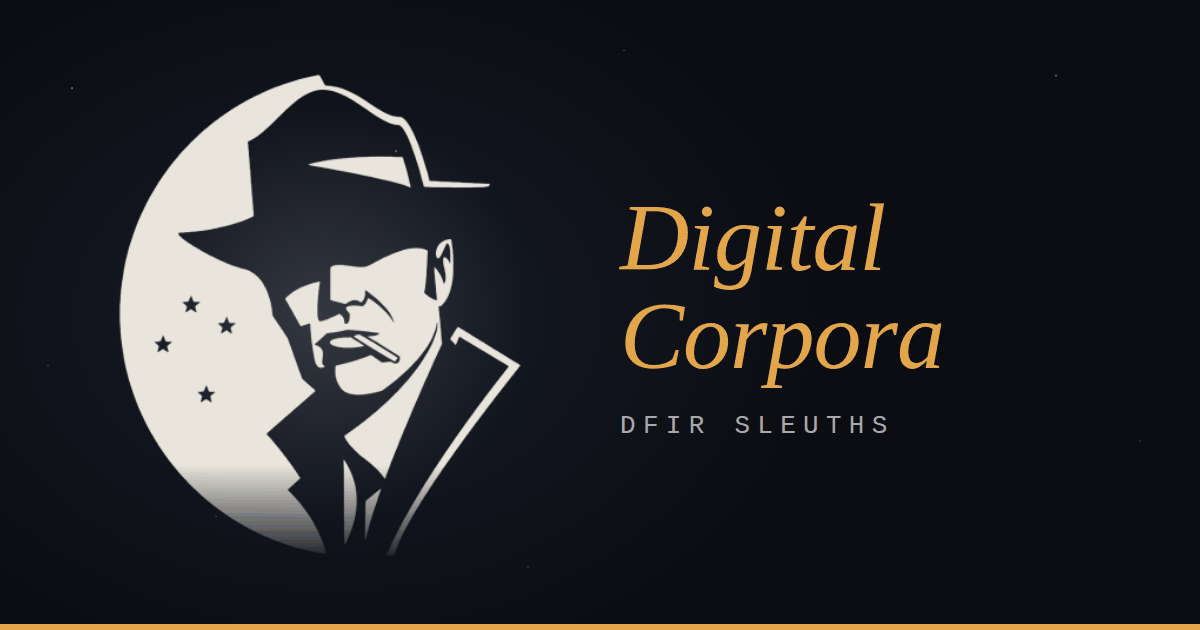
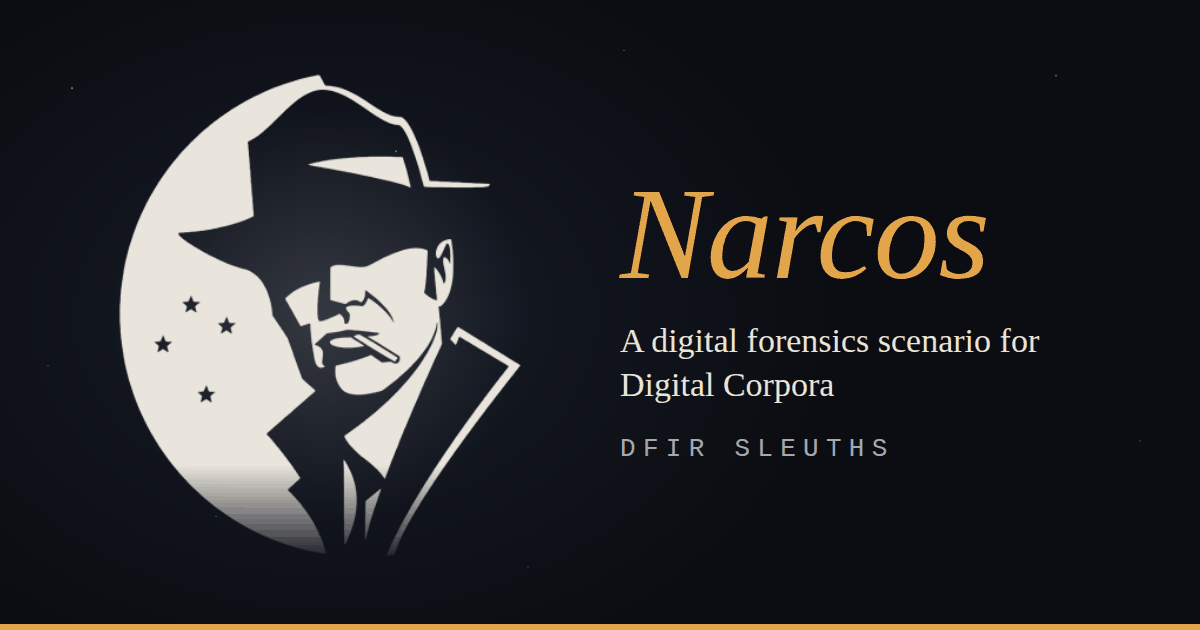
Rename project to Narcos

diff --git a/scenario.html b/scenario.html
@@ -5,17 +5,17 @@
   <meta name="viewport" content="width=device-width, initial-scale=1">
   <meta http-equiv="Content-Security-Policy" content="default-src 'none'; style-src 'self'; img-src 'self'; base-uri 'none'; form-action 'none'">
   <meta name="referrer" content="strict-origin-when-cross-origin">
-  <title>Scenario - Digital Corpora - DFIR Sleuths</title>
-  <meta name="description" content="The Digital Corpora case scenario: a Customs drug intercept with two laptops and a desktop computer to examine.">
+  <title>Scenario - Narcos - DFIR Sleuths</title>
+  <meta name="description" content="The Narcos case scenario: a Customs drug intercept with two laptops and a desktop computer to examine.">
   <meta property="og:type" content="website">
   <meta property="og:site_name" content="DFIR Sleuths">
-  <meta property="og:title" content="Scenario - Digital Corpora - DFIR Sleuths">
-  <meta property="og:description" content="The Digital Corpora case scenario: a Customs drug intercept with two laptops and a desktop computer to examine.">
+  <meta property="og:title" content="Scenario - Narcos - DFIR Sleuths">
+  <meta property="og:description" content="The Narcos case scenario: a Customs drug intercept with two laptops and a desktop computer to examine.">
   <meta property="og:url" content="https://dfirsleuths.github.io/scenario.html">
   <meta property="og:image" content="https://dfirsleuths.github.io/assets/img/brand/og-card.png">
   <meta property="og:image:width" content="1200">
   <meta property="og:image:height" content="630">
-  <meta property="og:image:alt" content="Noir detective illustration beside the words Digital Corpora, DFIR Sleuths">
+  <meta property="og:image:alt" content="Noir detective illustration beside the words Narcos, DFIR Sleuths">
   <meta name="twitter:card" content="summary_large_image">
   <meta name="theme-color" content="#0b0d12">
   <link rel="icon" href="assets/img/brand/favicon-32.png" sizes="32x32" type="image/png">
@@ -53,7 +53,7 @@
         <img src="assets/img/content/banner.webp" alt="" width="1000" height="350">
       </figure>
 
-      <p class="lede">The Digital Corpora project was developed in response to a lack of available sources of digital forensics training material. This project aimed to address that concern by creating a plausible case scenario for students undertaking papers taught by the client. Below is the final scenario that the team decided on.</p>
+      <p class="lede">The Narcos project was developed in response to a lack of available sources of digital forensics training material. This project aimed to address that concern by creating a plausible case scenario for students undertaking papers taught by the client. Below is the final scenario that the team decided on.</p>
 
       <p>Due to intelligence provided by the Australian government, two passengers were intercepted by Customs upon arriving in Wellington, New Zealand from Brisbane. The intel stated that Jane Esteban and John Fredricksen may be involved in illegal activity. The suspects were searched by a customs officer. John Fredricksen&rsquo;s baggage consisted of clothing, toiletries and a Windows laptop. Jane Esteban&rsquo;s baggage also consisted of clothing, toiletries and a small Windows laptop.</p>
 

diff --git a/testing.html b/testing.html
@@ -5,17 +5,17 @@
   <meta name="viewport" content="width=device-width, initial-scale=1">
   <meta http-equiv="Content-Security-Policy" content="default-src 'none'; style-src 'self'; img-src 'self'; base-uri 'none'; form-action 'none'">
   <meta name="referrer" content="strict-origin-when-cross-origin">
-  <title>Testing - Digital Corpora - DFIR Sleuths</title>
-  <meta name="description" content="How the Digital Corpora scenario was tested, following a modified V software development model.">
+  <title>Testing - Narcos - DFIR Sleuths</title>
+  <meta name="description" content="How the Narcos scenario was tested, following a modified V software development model.">
   <meta property="og:type" content="website">
   <meta property="og:site_name" content="DFIR Sleuths">
-  <meta property="og:title" content="Testing - Digital Corpora - DFIR Sleuths">
-  <meta property="og:description" content="How the Digital Corpora scenario was tested, following a modified V software development model.">
+  <meta property="og:title" content="Testing - Narcos - DFIR Sleuths">
+  <meta property="og:description" content="How the Narcos scenario was tested, following a modified V software development model.">
   <meta property="og:url" content="https://dfirsleuths.github.io/testing.html">
   <meta property="og:image" content="https://dfirsleuths.github.io/assets/img/brand/og-card.png">
   <meta property="og:image:width" content="1200">
   <meta property="og:image:height" content="630">
-  <meta property="og:image:alt" content="Noir detective illustration beside the words Digital Corpora, DFIR Sleuths">
+  <meta property="og:image:alt" content="Noir detective illustration beside the words Narcos, DFIR Sleuths">
   <meta name="twitter:card" content="summary_large_image">
   <meta name="theme-color" content="#0b0d12">
   <link rel="icon" href="assets/img/brand/favicon-32.png" sizes="32x32" type="image/png">
@@ -49,7 +49,7 @@
     </header>
 
     <article class="prose">
-      <p>The testing plan for Digital Corpora followed a modified V software development model. This model was chosen as testing throughout the project&rsquo;s life cycle was necessary and the project had a well-defined scope. Testing consisted of four phases: Unit Testing, Integration Testing, System Testing and Acceptance Testing.</p>
+      <p>The testing plan for Narcos followed a modified V software development model. This model was chosen as testing throughout the project&rsquo;s life cycle was necessary and the project had a well-defined scope. Testing consisted of four phases: Unit Testing, Integration Testing, System Testing and Acceptance Testing.</p>
 
       <ul>
         <li>Unit testing consisted of testing events in the scenario timeline individually.</li>

diff --git a/index.html b/index.html
@@ -5,17 +5,17 @@
   <meta name="viewport" content="width=device-width, initial-scale=1">
   <meta http-equiv="Content-Security-Policy" content="default-src 'none'; script-src 'self'; style-src 'self'; img-src 'self'; base-uri 'none'; form-action 'none'; require-trusted-types-for 'script'; trusted-types 'none'">
   <meta name="referrer" content="strict-origin-when-cross-origin">
-  <title>Digital Corpora - DFIR Sleuths</title>
-  <meta name="description" content="Digital Corpora, a digital forensics training scenario built by the DFIR Sleuths team for the Wellington Institute of Technology.">
+  <title>Narcos - DFIR Sleuths</title>
+  <meta name="description" content="Narcos, a digital forensics scenario for Digital Corpora, built by the DFIR Sleuths team at WelTec.">
   <meta property="og:type" content="website">
   <meta property="og:site_name" content="DFIR Sleuths">
-  <meta property="og:title" content="Digital Corpora - DFIR Sleuths">
-  <meta property="og:description" content="Digital Corpora, a digital forensics training scenario built by the DFIR Sleuths team for the Wellington Institute of Technology.">
+  <meta property="og:title" content="Narcos - DFIR Sleuths">
+  <meta property="og:description" content="Narcos, a digital forensics scenario for Digital Corpora, built by the DFIR Sleuths team at WelTec.">
   <meta property="og:url" content="https://dfirsleuths.github.io/">
   <meta property="og:image" content="https://dfirsleuths.github.io/assets/img/brand/og-card.png">
   <meta property="og:image:width" content="1200">
   <meta property="og:image:height" content="630">
-  <meta property="og:image:alt" content="Noir detective illustration beside the words Digital Corpora, DFIR Sleuths">
+  <meta property="og:image:alt" content="Noir detective illustration beside the words Narcos, DFIR Sleuths">
   <meta name="twitter:card" content="summary_large_image">
   <meta name="theme-color" content="#0b0d12">
   <link rel="icon" href="assets/img/brand/favicon-32.png" sizes="32x32" type="image/png">
@@ -58,7 +58,8 @@
     <section id="intro" class="hero" aria-labelledby="intro-title">
       <div class="wrap hero-inner">
         <div>
-          <h1 id="intro-title">Welcome to <span>Digital Corpora</span></h1>
+          <h1 id="intro-title"><span>Narcos</span></h1>
+          <p class="tagline">A digital forensics scenario for Digital Corpora</p>
           <p class="byline">By DFIR Sleuths</p>
         </div>
         <div class="hero-art">

diff --git a/methodology.html b/methodology.html
@@ -5,17 +5,17 @@
   <meta name="viewport" content="width=device-width, initial-scale=1">
   <meta http-equiv="Content-Security-Policy" content="default-src 'none'; style-src 'self'; img-src 'self'; base-uri 'none'; form-action 'none'">
   <meta name="referrer" content="strict-origin-when-cross-origin">
-  <title>Methodology - Digital Corpora - DFIR Sleuths</title>
-  <meta name="description" content="How the Digital Corpora scenario was built: recording procedures, development setup and testing procedures.">
+  <title>Methodology - Narcos - DFIR Sleuths</title>
+  <meta name="description" content="How the Narcos scenario was built: recording procedures, development setup and testing procedures.">
   <meta property="og:type" content="website">
   <meta property="og:site_name" content="DFIR Sleuths">
-  <meta property="og:title" content="Methodology - Digital Corpora - DFIR Sleuths">
-  <meta property="og:description" content="How the Digital Corpora scenario was built: recording procedures, development setup and testing procedures.">
+  <meta property="og:title" content="Methodology - Narcos - DFIR Sleuths">
+  <meta property="og:description" content="How the Narcos scenario was built: recording procedures, development setup and testing procedures.">
   <meta property="og:url" content="https://dfirsleuths.github.io/methodology.html">
   <meta property="og:image" content="https://dfirsleuths.github.io/assets/img/brand/og-card.png">
   <meta property="og:image:width" content="1200">
   <meta property="og:image:height" content="630">
-  <meta property="og:image:alt" content="Noir detective illustration beside the words Digital Corpora, DFIR Sleuths">
+  <meta property="og:image:alt" content="Noir detective illustration beside the words Narcos, DFIR Sleuths">
   <meta name="twitter:card" content="summary_large_image">
   <meta name="theme-color" content="#0b0d12">
   <link rel="icon" href="assets/img/brand/favicon-32.png" sizes="32x32" type="image/png">

diff --git a/assets/css/style.css b/assets/css/style.css
@@ -1,4 +1,4 @@
-/* DFIR Sleuths - Digital Corpora */
+/* DFIR Sleuths - Narcos */
 
 :root {
   color-scheme: dark;
@@ -332,8 +332,8 @@ a:hover {
 }
 
 .hero h1 {
-  margin-bottom: 0.75rem;
-  font-size: clamp(2.5rem, 7vw, 4.5rem);
+  margin-bottom: 0.5rem;
+  font-size: clamp(3.5rem, 11vw, 6.5rem);
   font-weight: 500;
   line-height: 1.05;
 }
@@ -342,6 +342,15 @@ a:hover {
   display: block;
   color: var(--ember);
   font-style: italic;
+}
+
+.hero .tagline {
+  margin: 0 0 1.25rem;
+  color: var(--paper);
+  font-family: var(--serif);
+  font-size: clamp(1.15rem, 2.4vw, 1.5rem);
+  line-height: 1.4;
+  text-wrap: balance;
 }
 
 .hero .byline {

diff --git a/README.md b/README.md
@@ -1,4 +1,6 @@
-# DFIR Sleuths - Digital Corpora
+# Narcos - DFIR Sleuths
+
+A digital forensics scenario for Digital Corpora
 
 A digital forensics training scenario built by the DFIR Sleuths team as a group project for the Wellington Institute of Technology (WelTec).
 
